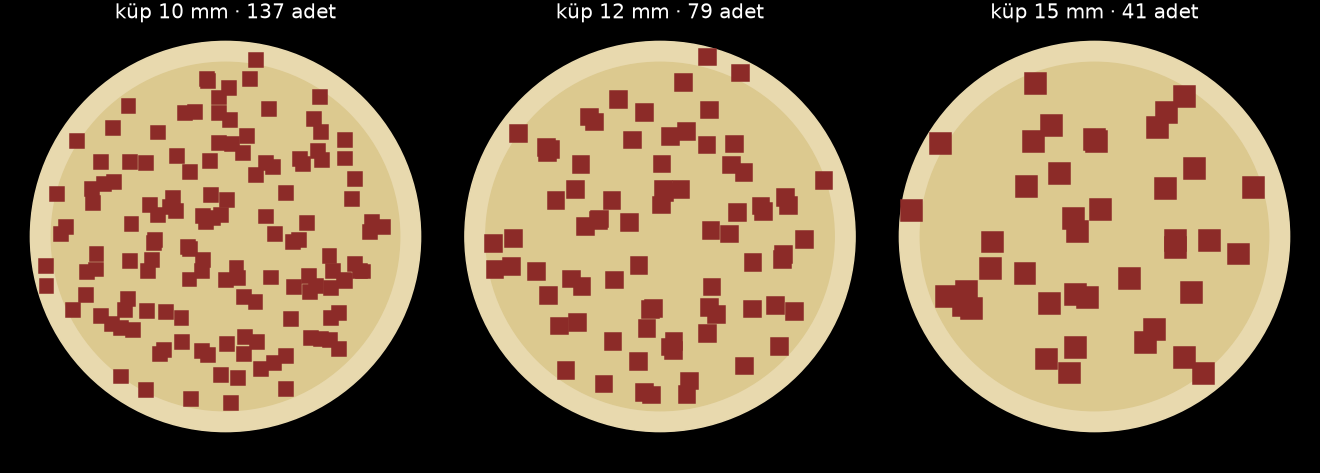
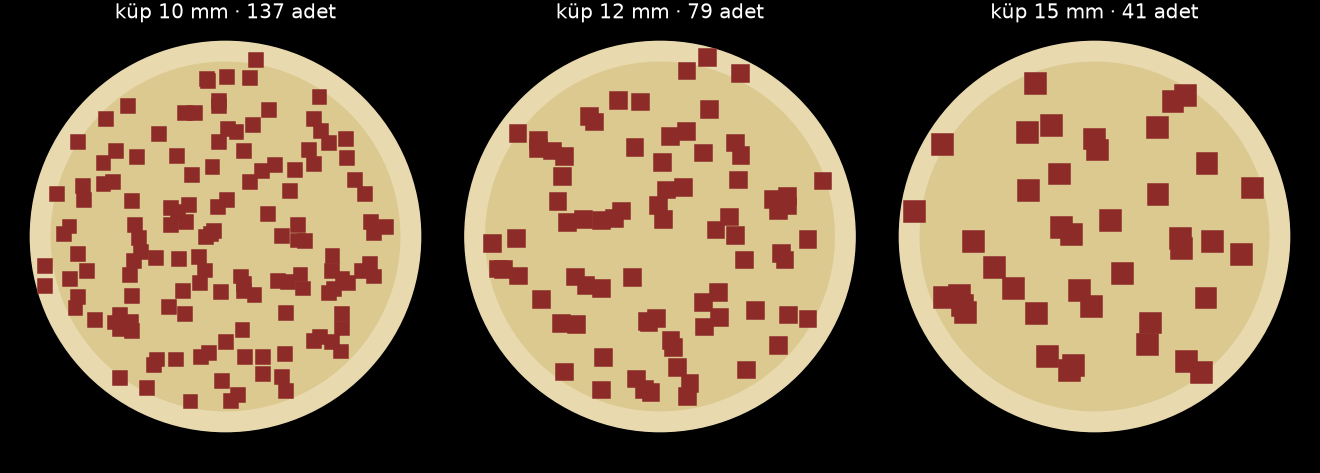
kusbasi: tabla yasasi kusbasi icin ayri cozuldu + "pat diye dokerse"
Kemal: "tabla disaridan iceri donerken her yerine esit miktarda verecek
sekilde kurdun degil mi; pat tek seferde verirse olmaz"

- kasar yasasi kusbasinda tutmuyor (kasar eriyip ~13 mm yayilir, kup
  yayilmaz): halkalar arasi sapma %20, en dis halka %63
- agzin her yaricapta ne kadar oyalanacagi scipy NNLS ile cozuldu
  (A w = sabit, w >= 0, komsu istasyonlar arasi puruz terimi):
  sapma %13, en dis halka %80; takas tablosu r_max 95/100/105/110
- kendi gradyan cozucum yakinsamiyordu (ic halkalari sifirliyordu),
  atildi
- ayni 145 g obek obek duserse bos hucre: surekli %13, 4 obek %34,
  2 obek %48, tek seferde %50 -> sureklilik sart, onu saglayan esik +
  tikac kasetin en kritik ve denenmemis parcasi

diff --git a/otonom/kaset3d/akis_kusbasi.html b/otonom/kaset3d/akis_kusbasi.html
@@ -47,8 +47,16 @@
 <h2>7 · Pidenin üstü</h2>
 <p>Tabla 35 dev/dk dönerken dıştan içe yürüyor, küpler sürekli düşüyor. 25 mm'lik hücrelerde küp sayıldı (8 deneme ortalaması). “Rastgele serpmenin sınırı” = bu kadar az küple elde edilebilecek en iyi düzgünlük.</p>
 <img src="kusbasi_dagilim.png" alt="pide üstünde küpler">
-<div class="tasir"><table><tr><th>küp</th><th>adet</th><th>hücre başına</th><th>sapma</th><th>rastgele serpmenin sınırı</th><th>boş hücre</th></tr><tr><td><b>8 mm</b></td><td>267</td><td>3,6</td><td>%51</td><td>%53</td><td><b>%2,3</b></td></tr><tr><td><b>10 mm</b></td><td>137</td><td>1,9</td><td>%63</td><td>%73</td><td><b>%10,5</b></td></tr><tr><td><b>12 mm</b></td><td>79</td><td>1,1</td><td>%88</td><td>%96</td><td><b>%30,3</b></td></tr><tr><td><b>15 mm</b></td><td>41</td><td>0,5</td><td>%124</td><td>%136</td><td><b>%55,1</b></td></tr><tr><td><b>20 mm</b></td><td>17</td><td>0,2</td><td>%196</td><td>%208</td><td><b>%78,3</b></td></tr></table></div>
+<div class="tasir"><table><tr><th>küp</th><th>adet</th><th>hücre başına</th><th>sapma</th><th>rastgele serpmenin sınırı</th><th>boş hücre</th></tr><tr><td><b>8 mm</b></td><td>267</td><td>3,5</td><td>%53</td><td>%54</td><td><b>%2,5</b></td></tr><tr><td><b>10 mm</b></td><td>137</td><td>1,8</td><td>%69</td><td>%75</td><td><b>%12,9</b></td></tr><tr><td><b>12 mm</b></td><td>79</td><td>1,0</td><td>%91</td><td>%99</td><td><b>%32,6</b></td></tr><tr><td><b>15 mm</b></td><td>41</td><td>0,5</td><td>%126</td><td>%138</td><td><b>%55,7</b></td></tr><tr><td><b>20 mm</b></td><td>17</td><td>0,2</td><td>%199</td><td>%212</td><td><b>%78,7</b></td></tr></table></div>
 <p>Sapma her boyda rastgele serpmenin sınırında: <b>makine elinden geleni yapıyor</b>, boşluğu belirleyen küp sayısı. 10 mm'de hücrelerin %10'u boş, 15 mm'de yarısından fazlası. Düzgün görünen pide için de küçük küp gerekiyor.</p>
+
+<h2>7b · Tabla her yere eşit veriyor mu · “pat diye” dökerse ne olur</h2>
+<p>Hesap şu kurguyla yapıldı: helezon doz boyunca <b>sabit hızla</b> döner (sabit gram/saniye), tabla dönerken ağız pidenin <b>dışından içine</b> yürür. Her halkaya cm² başına aynı gram düşmesi için ağzın her yarıçapta ne kadar oyalanacağı <b>çözüldü</b> (negatif olmayan en küçük kareler, scipy).</p>
+<p>Kaşarın hareket yasası burada tutmadı: kaşar eriyip ≈ 13 mm yayılıyor, küp yayılmıyor. Kaşar yasasıyla halkalar arası sapma <b>%20</b> (en dış halka ortalamanın %63'i). Kuşbaşı için çözülen yasayla <b>%13</b> (en dış halka %80).</p>
+<div class="tasir"><table><tr><th>ağız merkezi en dışta</th><th>halkalar arası sapma</th><th>kenar payına (r &gt; 125) taşan</th></tr><tr><td><b>r 95</b></td><td>%23</td><td>%1,5</td></tr><tr><td><b>r 100</b></td><td>%16</td><td>%4,2</td></tr><tr style="background:#15243a"><td><b>r 105</b> ← seçilen</td><td>%12</td><td>%7,7</td></tr><tr><td><b>r 110</b></td><td>%10</td><td>%11,1</td></tr></table></div>
+<p>Bu bir <b>takas</b>: ağız 48 mm geniş olduğu için en dış halkayı doldurmak, bir kısmını kenar payına taşırmadan olmuyor. Oyalanma süreleri: r 105: 2,49 sn · r 100: 2,01 sn · r 95: 1,24 sn · r 90: 0,49 sn · r 70: 0,11 sn · r 65: 0,36 sn · r 60: 0,66 sn · r 55: 0,79 sn · r 50: 0,71 sn · r 45: 0,50 sn · r 40: 0,14 sn · r 10: 0,46 sn.</p>
+<div class="tasir"><table><tr><th>aynı 145 g nasıl düşerse (küp 10 mm)</th><th>pidede boş hücre</th></tr><tr><td>sürekli (eşik + tıkaç çalışıyor)</td><td><b>%13,2</b></td></tr><tr><td>4 öbek</td><td><b>%33,6</b></td></tr><tr><td>2 öbek (tur başına bir boşalma)</td><td><b>%47,6</b></td></tr><tr><td>tek seferde</td><td><b>%50,0</b></td></tr></table></div>
+<div class="kutu"><b>“Pat diye” dökmek olmaz — sayı da bunu söylüyor:</b> sürekli akışta pidenin ≈ %13'ü boş, iki öbekte yarısı. Sürekliliği sağlayan şey <b>eşik + tıkaç</b>; bu kasetin <b>en kritik ve henüz denenmemiş</b> parçası. Denemede ilk bakılacak şey: küpler tek tek mi düşüyor, tur başına öbek öbek mi.</div>
 
 <h2>8 · Tork</h2>
 <p>Çalışma torku ≈ <b>0,25 N·m</b> (yatak 0,94 kg + hazne basıncı, sürtünme 13,5 N). Redüktör 24 N·m veriyor; tehlike çalışma değil <b>sıkışma</b>. Sürücüde akım sınırı ≈ 3 N·m olmalı ki sinir parçası sıkışırsa baskı kanat kırılmasın, motor dursun.</p>

diff --git a/arastirma/_uretec/kusbasi_akis_model_v1.py b/arastirma/_uretec/kusbasi_akis_model_v1.py
@@ -67,13 +67,94 @@ def janssen(L=None, mu=MU, K=0.5):
     return math.exp(4.0 * mu * K * L / (2 * G["RT"]))
 
 
-def dagilim(d, n_tabla=35.0, seed=1, HC=25.0):
+# ---------------- TABLA YASASI: kuşbaşı için AYRI çözülür ----------------
+# Kaşarın yasası (dışta 2,5 sn bekle + r² doğrusal) burada tutmuyor: kaşar eriyip ≈ 13 mm yayılır, küp yayılmaz → halkalar arası ±%25.
+# Doğru soru: ağız merkezi her yarıçapta NE KADAR SÜRE kalmalı ki her halkaya cm² başına aynı gram düşsün?
+# Ağız izi (48 × 44 + 4 mm sekme) her r_j istasyonu için halkalara bir pay dağıtır → A matrisi. A·w = sabit (negatif olmayan w) çözülür.
+IST = [110.0 - 5.0 * j for j in range(21)]                          # ağız merkezi istasyonları: 110 → 10 mm
+DR_H, NB_H = 10.0, int((PIDE_R - KENAR) / 10.0)                      # 10 mm'lik halkalar, r ≤ 125
+
+
+def _cekirdek(n=6000, seed=4):
+    R = random.Random(seed); ax, az = G["AGIZ"][0] / 2.0, G["AGIZ"][1] / 2.0; A = [[0.0] * len(IST) for _ in range(NB_H)]; tas = [0.0] * len(IST)
+    for j, rj in enumerate(IST):
+        for _ in range(n):
+            x = rj + R.uniform(-ax, ax) + R.gauss(0, 4.0); z = R.uniform(-az, az) + R.gauss(0, 4.0); b = int(math.hypot(x, z) / DR_H)
+            if b < NB_H: A[b][j] += 1.0 / n / (((b + 1) * DR_H) ** 2 - (b * DR_H) ** 2)
+            else: tas[j] += 1.0 / n
+    return A, tas
+
+
+def yasa_coz(r_max=110.0, puruz=0.02):
+    """scipy NNLS: min ‖√alan · (A w − 1)‖² + pürüz · ‖Δw‖²  ,  w ≥ 0 · ağız merkezi r_max'tan dışarı çıkmaz.
+    Pürüz terimi komşu istasyonların süresini birbirine yaklaştırır (tabla sarsılmadan yürüsün)."""
+    import numpy as np
+    from scipy.optimize import nnls
+    A, tas = _CEK; A = np.array(A); A = A / A.max(); m = len(IST); acik = [j_ for j_ in range(m) if IST[j_] <= r_max + 1e-9]
+    alan = np.array([((b + 1) * DR_H) ** 2 - (b * DR_H) ** 2 for b in range(NB_H)], dtype=float); kok = np.sqrt(alan / alan.sum())
+    M = A[:, acik] * kok[:, None]; y = kok.copy()
+    Dm = np.zeros((len(acik) - 1, len(acik)))
+    for k_ in range(len(acik) - 1): Dm[k_, k_], Dm[k_, k_ + 1] = -puruz, puruz
+    w, _ = nnls(np.vstack([M, Dm]), np.concatenate([y, np.zeros(len(acik) - 1)]))
+    W = [0.0] * m
+    for k_, j_ in enumerate(acik): W[j_] = float(w[k_])
+    top = sum(W); return [v / top for v in W]
+
+
+def _kur(W):
+    K = [0.0]
+    for v in W: K.append(K[-1] + v)
+    return K
+
+
+_CEK = _cekirdek(); W_IST, _KUM, YASA_TARAMA = None, None, []
+for _rm in (95.0, 100.0, 105.0, 110.0):
+    W_IST = yasa_coz(_rm); _KUM = _kur(W_IST)
+    YASA_TARAMA.append((_rm, W_IST))
+
+
+def r_t_k(t):
+    """kuşbaşı tabla yasası: istasyonlarda W_IST payı kadar oyalanarak DIŞTAN İÇE sürekli hareket"""
+    u = min(1.0, max(0.0, t / T_DOK)); son = IST[-1]
+    for j in range(len(IST)):
+        if W_IST[j] <= 1e-9: continue
+        son = IST[j] - 2.5
+        if u <= _KUM[j + 1]: return IST[j] + 2.5 - 5.0 * (u - _KUM[j]) / W_IST[j]
+    return son
+
+
+def halka_profili(rt, n=80000, seed=2):
+    R = random.Random(seed); ax, az = G["AGIZ"][0] / 2.0, G["AGIZ"][1] / 2.0; m = [0] * (NB_H + 6)
+    for k in range(n):
+        r = rt(T_DOK * (k + R.random()) / n); x = r + R.uniform(-ax, ax) + R.gauss(0, 4.0); z = R.uniform(-az, az) + R.gauss(0, 4.0); b = int(math.hypot(x, z) / DR_H)
+        if b < len(m): m[b] += 1
+    alan = [((b + 1) * DR_H) ** 2 - (b * DR_H) ** 2 for b in range(NB_H)]; ort = sum(m[:NB_H]) / float(sum(alan)); yog = [m[b] / alan[b] / ort for b in range(NB_H)]
+    cv = math.sqrt(sum(a * (y - 1.0) ** 2 for a, y in zip(alan, yog)) / sum(alan))
+    return 100 * cv, 100.0 * sum(m[NB_H:]) / n, [int(round(100 * y)) for y in yog]
+
+
+def _yasa_sec():
+    """taşan ≤ %8 olanlardan halka sapması en küçük olanı seç; tablo S['yasa_tarama'] için saklanır"""
+    global W_IST, _KUM
+    sonuc = []
+    for rm, W in YASA_TARAMA:
+        W_IST, _KUM = W, _kur(W); cv, tas, pr = halka_profili(r_t_k, n=40000); sonuc.append((rm, cv, tas, pr, W))
+    uygun = [x for x in sonuc if x[2] <= 8.0] or sonuc
+    en = min(uygun, key=lambda x: x[1]); W_IST, _KUM = en[4], _kur(en[4])
+    return sonuc, en[0]
+
+
+YASA_SONUC, R_MAX = _yasa_sec()
+
+
+def dagilim(d, n_tabla=35.0, seed=1, HC=25.0, obek=0, pencere=0.25):
     """sürekli akış (eşikten tek tek düşen küpler) → pide üstünde 25 mm'lik hücrelerde küp sayısı"""
     R = random.Random(seed); N = int(round(PORS / kup(d))); NG = int(2 * PIDE_R / HC) + 2; L = NG * HC / 2.0
     g = [0] * (NG * NG); w = 2 * math.pi * n_tabla / 60.0; ax, az = G["AGIZ"][0] / 2.0, G["AGIZ"][1] / 2.0
     for k in range(N):
-        t = T_DOK * (k + R.random()) / N                               # SÜREKLİ: küpler zamana düzgün yayılı
-        r = r_t(t); a = -w * t
+        if obek: t = T_DOK * (R.randrange(obek) + pencere * R.random()) / obek       # ÖBEK: doz k parçada, her biri kısa sürede boşalır
+        else: t = T_DOK * (k + R.random()) / N                         # SÜREKLİ: küpler zamana düzgün yayılı
+        r = r_t_k(t); a = -w * t
         x = r + R.uniform(-ax, ax) + R.gauss(0, 4.0); z = R.uniform(-az, az) + R.gauss(0, 4.0)
         px, pz = x * math.cos(a) - z * math.sin(a), x * math.sin(a) + z * math.cos(a)
         i, j = int((px + L) / HC), int((pz + L) / HC)
@@ -129,6 +210,18 @@ if __name__ == "__main__":
         r = [dagilim(d, seed=s) for s in range(1, 9)]; N = r[0][0]; ort = sum(x[1] for x in r) / 8; cv = sum(x[2] for x in r) / 8; po = sum(x[3] for x in r) / 8; bos = sum(x[4] for x in r) / 8
         print("  d %4.0f · %3d kup · hucre basina %4.1f · sapma %%%4.0f (rastgele serpmenin siniri %%%3.0f) · bos hucre %%%4.1f" % (d, N, ort, cv, po, bos))
         S["dagilim"].append(dict(d=d, N=N, ort=round(ort, 1), cv=round(cv), poisson=round(po), bos=round(bos, 1)))
+    print("\n=== 6b · TABLA YASASI + 'PAT DIYE DOKERSE' ===")
+    e_cv, e_tas, e_pr = halka_profili(r_t); y_cv, y_tas, y_pr = halka_profili(r_t_k)
+    print("  kasardan alinan yasa : halka sapmasi %%%.0f · kenara tasan %%%.1f · profil %s" % (e_cv, e_tas, e_pr))
+    print("  KUSBASI ICIN COZULEN : halka sapmasi %%%.0f · kenara tasan %%%.1f · profil %s" % (y_cv, y_tas, y_pr))
+    for rm, cv, tas, pr, W in YASA_SONUC: print("     agiz merkezi en dista r%3.0f → halka sapmasi %%%2.0f · tasan %%%4.1f%s" % (rm, cv, tas, "   ← SECILEN" if rm == R_MAX else ""))
+    S["yasa_tarama"] = [dict(r_max=rm, cv=int(round(cv)), tas=round(tas, 1), secilen=(rm == R_MAX)) for rm, cv, tas, pr, W in YASA_SONUC]
+    print("  istasyonlarda oyalanma (sn): " + " · ".join("r%d %.2f" % (IST[j], W_IST[j] * T_DOK) for j in range(len(IST)) if W_IST[j] * T_DOK >= 0.05))
+    S["yasa"] = dict(eski=dict(cv=int(round(e_cv)), tas=round(e_tas, 1), profil=e_pr), yeni=dict(cv=int(round(y_cv)), tas=round(y_tas, 1), profil=y_pr),
+                     ist=[dict(r=IST[j], sn=round(W_IST[j] * T_DOK, 2)) for j in range(len(IST))])
+    S["obek"] = []
+    for ad, ob in (("sürekli (eşik + tıkaç çalışıyor)", 0), ("4 öbek", 4), ("2 öbek (tur başına bir boşalma)", 2), ("tek seferde", 1)):
+        v = [dagilim(D_NOM, seed=s_, obek=ob)[4] for s_ in range(1, 41)]; print("  %-34s bos hucre %%%4.1f" % (ad, sum(v) / len(v))); S["obek"].append(dict(ad=ad, bos=round(sum(v) / len(v), 1)))
     print("\n=== 7 · TORK (kaba) ===")
     A_k = math.pi * (G["RT"] ** 2 - G["R_MIL"] ** 2) / 100.0; m_yatak = A_k * G["L"] / 10.0 * RHO_DOKME / 1000.0
     F_bas = RHO_DOKME * 1000 * 9.81 * 0.17 * (2 * G["RT"] / 1000.0) * (G["L"] / 1000.0); F = MU * (m_yatak * 9.81 + F_bas)

diff --git a/arastirma/_uretec/kusbasi_sayfa_v1.py b/arastirma/_uretec/kusbasi_sayfa_v1.py
@@ -16,7 +16,7 @@ fig, axs = plt.subplots(1, 3, figsize=(12, 4.3), facecolor="#000")
 for ax, d in zip(axs, (10.0, 12.0, 15.0)):
     R = random.Random(3); N = int(round(KM.PORS / KM.kup(d))); w = 2 * math.pi * 35.0 / 60.0; xs, zs = [], []
     for k in range(N):
-        t = T_DOK * (k + R.random()) / N; r = r_t(t); a = -w * t
+        t = T_DOK * (k + R.random()) / N; r = KM.r_t_k(t); a = -w * t
         x = r + R.uniform(-G["AGIZ"][0] / 2, G["AGIZ"][0] / 2) + R.gauss(0, 4); z = R.uniform(-G["AGIZ"][1] / 2, G["AGIZ"][1] / 2) + R.gauss(0, 4)
         xs.append(x * math.cos(a) - z * math.sin(a)); zs.append(x * math.sin(a) + z * math.cos(a))
     ax.set_facecolor("#000"); ax.add_patch(plt.Circle((0, 0), PIDE_R, color="#e8d9ae")); ax.add_patch(plt.Circle((0, 0), PIDE_R - KENAR, color="#dcc98f"))
@@ -35,6 +35,9 @@ doz = "".join("<tr><td>%s</td><td><b>%s g</b></td><td>%s tur</td><td>%s dev/dk</
 bel = "".join("<tr><td><b>%d mm</b></td><td>%s</td><td>± %s küp</td><td><b>± %%%s</b></td><td>%%%s</td></tr>" % (x["d"], tr(x["nk"]), tr(x["sig"], 2), tr(x["yuzde"]), tr(x["bir"])) for x in S["belirsizlik"])
 dag = "".join("<tr><td><b>%d mm</b></td><td>%d</td><td>%s</td><td>%%%d</td><td>%%%d</td><td><b>%%%s</b></td></tr>" % (x["d"], x["N"], tr(x["ort"]), x["cv"], x["poisson"], tr(x["bos"])) for x in S["dagilim"])
 D0 = [x for x in S["doz"] if abs(x["etaF"] - 0.6) < 1e-9][0]
+tar = "".join("<tr%s><td><b>r %d</b>%s</td><td>%%%d</td><td>%%%s</td></tr>" % (' style="background:#15243a"' if x["secilen"] else "", x["r_max"], " ← seçilen" if x["secilen"] else "", x["cv"], tr(x["tas"])) for x in S["yasa_tarama"])
+obk = "".join("<tr><td>%s</td><td><b>%%%s</b></td></tr>" % (x["ad"], tr(x["bos"])) for x in S["obek"])
+ist = " · ".join("r %d: %s sn" % (x["r"], tr(x["sn"], 2)) for x in S["yasa"]["ist"] if x["sn"] >= 0.05)
 
 H = u'''<!DOCTYPE html>
 <html lang="tr"><head><meta charset="UTF-8"><meta name="viewport" content="width=device-width, initial-scale=1.0">
@@ -88,6 +91,14 @@ H = u'''<!DOCTYPE html>
 <div class="tasir"><table><tr><th>küp</th><th>adet</th><th>hücre başına</th><th>sapma</th><th>rastgele serpmenin sınırı</th><th>boş hücre</th></tr>__DAG__</table></div>
 <p>Sapma her boyda rastgele serpmenin sınırında: <b>makine elinden geleni yapıyor</b>, boşluğu belirleyen küp sayısı. 10 mm'de hücrelerin %10'u boş, 15 mm'de yarısından fazlası. Düzgün görünen pide için de küçük küp gerekiyor.</p>
 
+<h2>7b · Tabla her yere eşit veriyor mu · “pat diye” dökerse ne olur</h2>
+<p>Hesap şu kurguyla yapıldı: helezon doz boyunca <b>sabit hızla</b> döner (sabit gram/saniye), tabla dönerken ağız pidenin <b>dışından içine</b> yürür. Her halkaya cm² başına aynı gram düşmesi için ağzın her yarıçapta ne kadar oyalanacağı <b>çözüldü</b> (negatif olmayan en küçük kareler, scipy).</p>
+<p>Kaşarın hareket yasası burada tutmadı: kaşar eriyip ≈ 13 mm yayılıyor, küp yayılmıyor. Kaşar yasasıyla halkalar arası sapma <b>%__ECV__</b> (en dış halka ortalamanın %__EDIS__'i). Kuşbaşı için çözülen yasayla <b>%__YCV__</b> (en dış halka %__YDIS__).</p>
+<div class="tasir"><table><tr><th>ağız merkezi en dışta</th><th>halkalar arası sapma</th><th>kenar payına (r &gt; 125) taşan</th></tr>__TAR__</table></div>
+<p>Bu bir <b>takas</b>: ağız 48 mm geniş olduğu için en dış halkayı doldurmak, bir kısmını kenar payına taşırmadan olmuyor. Oyalanma süreleri: __IST__.</p>
+<div class="tasir"><table><tr><th>aynı 145 g nasıl düşerse (küp 10 mm)</th><th>pidede boş hücre</th></tr>__OBK__</table></div>
+<div class="kutu"><b>“Pat diye” dökmek olmaz — sayı da bunu söylüyor:</b> sürekli akışta pidenin ≈ %13'ü boş, iki öbekte yarısı. Sürekliliği sağlayan şey <b>eşik + tıkaç</b>; bu kasetin <b>en kritik ve henüz denenmemiş</b> parçası. Denemede ilk bakılacak şey: küpler tek tek mi düşüyor, tur başına öbek öbek mi.</div>
+
 <h2>8 · Tork</h2>
 <p>Çalışma torku ≈ <b>__TORK__ N·m</b> (yatak __YATAK__ kg + hazne basıncı, sürtünme __F__ N). Redüktör 24 N·m veriyor; tehlike çalışma değil <b>sıkışma</b>. Sürücüde akım sınırı ≈ 3 N·m olmalı ki sinir parçası sıkışırsa baskı kanat kırılmasın, motor dursun.</p>
 
@@ -100,6 +111,7 @@ rp = {"__LITRE__": tr(G["KG2"] / G["RHO"], 2) if False else tr(S["giris"]["KG2"]
       "__BOGAZ__": "%d" % (2 * G["RT"]), "__AGX__": "%d" % G["AGIZ"][0], "__AGZ__": "%d" % G["AGIZ"][1], "__KANAL__": "%d" % (G["RT"] - G["R_MIL"]), "__KANALK__": "%d" % (G["RT"] - G["R_KOK"]),
       "__P0__": "%d" % G["P0"], "__P1__": tr(G["P1"]), "__HB__": "%d" % (G["P0"] - G["T"]), "__LAMA__": tr(G["LAMA_DUVAR"]), "__ROTOR__": "%d" % G["ROTOR_BOSLUK"],
       "__TANE__": tane, "__KAP__": kap, "__DUY__": duy, "__DOZ__": doz, "__TIK__": "%d" % (G["TIKAC"] + G["ESIK"]), "__JAN__": tr(S["janssen"], 2), "__BEL__": bel, "__DAG__": dag,
+      "__TAR__": tar, "__OBK__": obk, "__IST__": ist, "__ECV__": "%d" % S["yasa"]["eski"]["cv"], "__EDIS__": "%d" % S["yasa"]["eski"]["profil"][-1], "__YCV__": "%d" % S["yasa"]["yeni"]["cv"], "__YDIS__": "%d" % S["yasa"]["yeni"]["profil"][-1],
       "__TORK__": tr(S["tork"]["T"], 2), "__YATAK__": tr(S["tork"]["yatak"], 2), "__F__": tr(S["tork"]["F"])}
 for a, b in rp.items(): H = H.replace(a, b)
 assert "__" not in H.replace("__main__", ""), [x for x in H.split() if "__" in x][:5]
